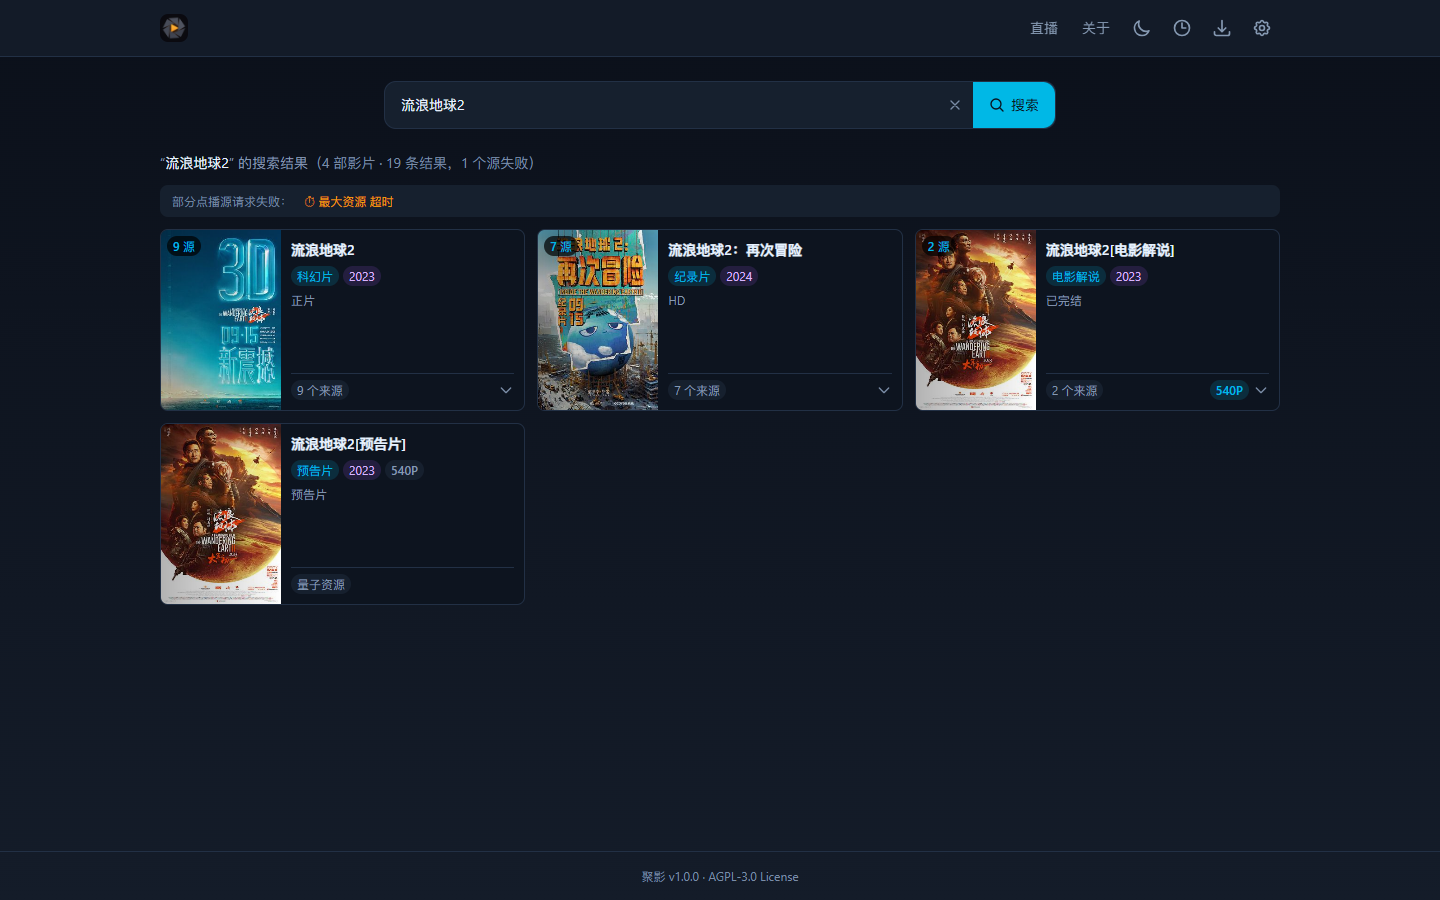
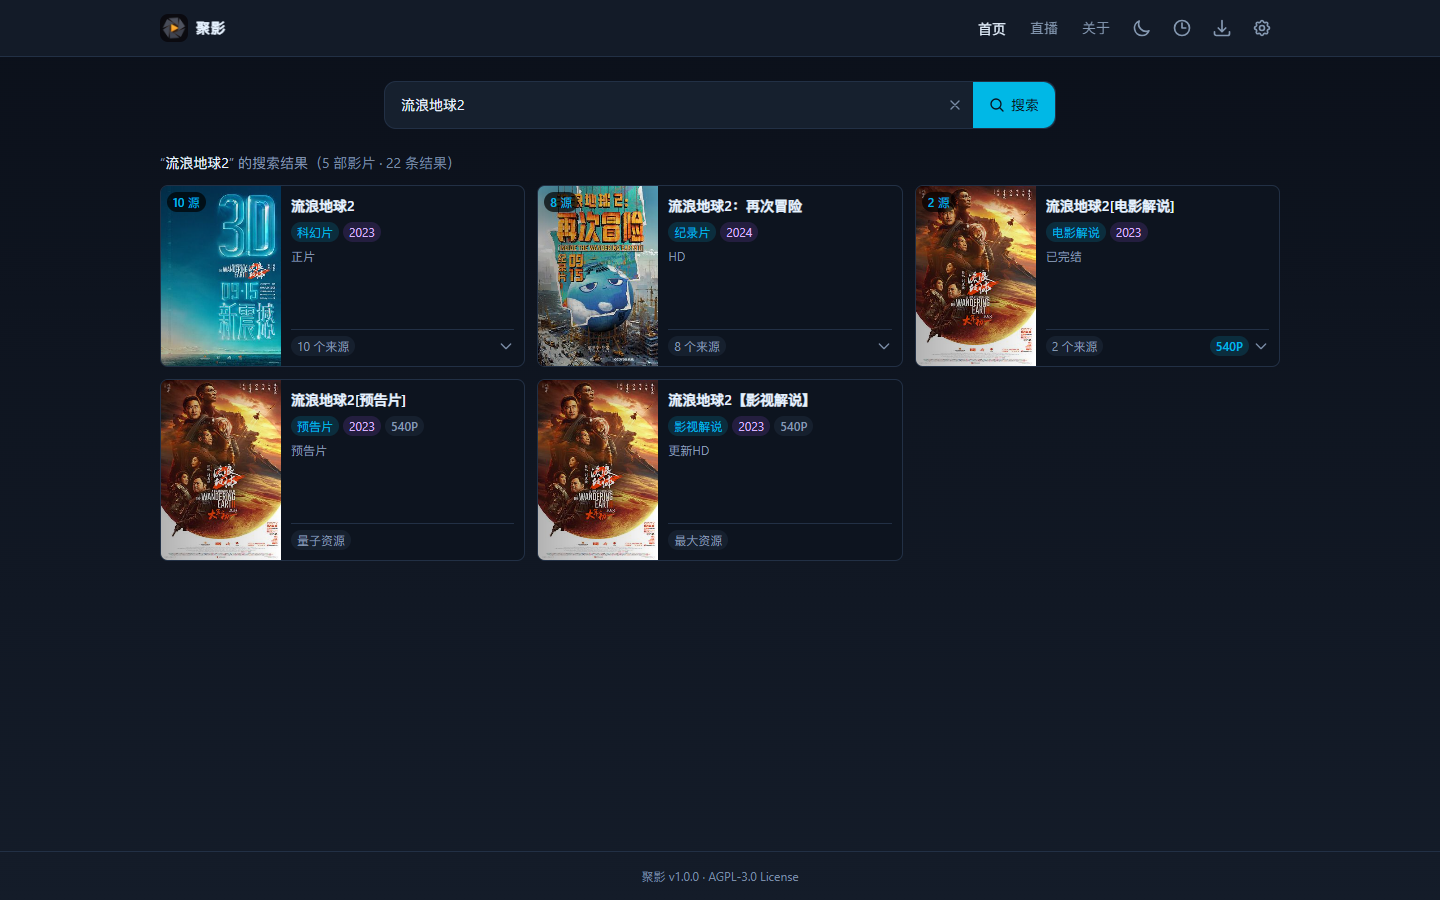
fix: 补全首页头部品牌文字与首页导航
- 头部增加「聚影」品牌文字与「首页」导航
- 导航激活态改为纯文字高亮，降低视觉噪音
- 同步更新首页、联想与搜索结果截图

diff --git a/src/components/header.tsx b/src/components/header.tsx
@@ -51,9 +51,10 @@ export function Header({ showSearch = false }: { showSearch?: boolean }) {
               <Icon name="chevronLeft" className="w-5 h-5" />
             </button>
           )}
-          <Link href="/" aria-label="聚影 首页" className="flex items-center shrink-0">
+          <Link href="/" aria-label="聚影 首页" className="flex items-center gap-2 shrink-0">
             {/* eslint-disable-next-line @next/next/no-img-element */}
             <img src="/icons/icon-512.png" alt="聚影" className="w-7 h-7 rounded-lg" />
+            <span className="hidden sm:inline text-sm font-semibold tracking-[0.08em] text-content">聚影</span>
           </Link>
 
           {showSearch && (
@@ -110,6 +111,11 @@ export function Header({ showSearch = false }: { showSearch?: boolean }) {
           <div className="flex-1 sm:hidden" />
 
           <nav className="flex items-center gap-1 ml-auto">
+            <span className="hidden sm:block">
+              <HeaderLink href="/" active={pathname === '/'}>
+                首页
+              </HeaderLink>
+            </span>
             <HeaderLink href="/live" active={pathname === '/live'}>
               直播
             </HeaderLink>
@@ -141,8 +147,8 @@ function HeaderLink({ href, active, children }: { href: string; active: boolean;
     <Link
       href={href}
       className={cn(
-        'px-2.5 py-1.5 rounded-md text-sm transition-colors',
-        active ? 'text-content bg-hover' : 'text-muted hover:text-content'
+        'px-2.5 py-1.5 rounded-md text-sm transition-colors hover:bg-hover',
+        active ? 'text-content' : 'text-muted hover:text-content'
       )}
     >
       {children}
